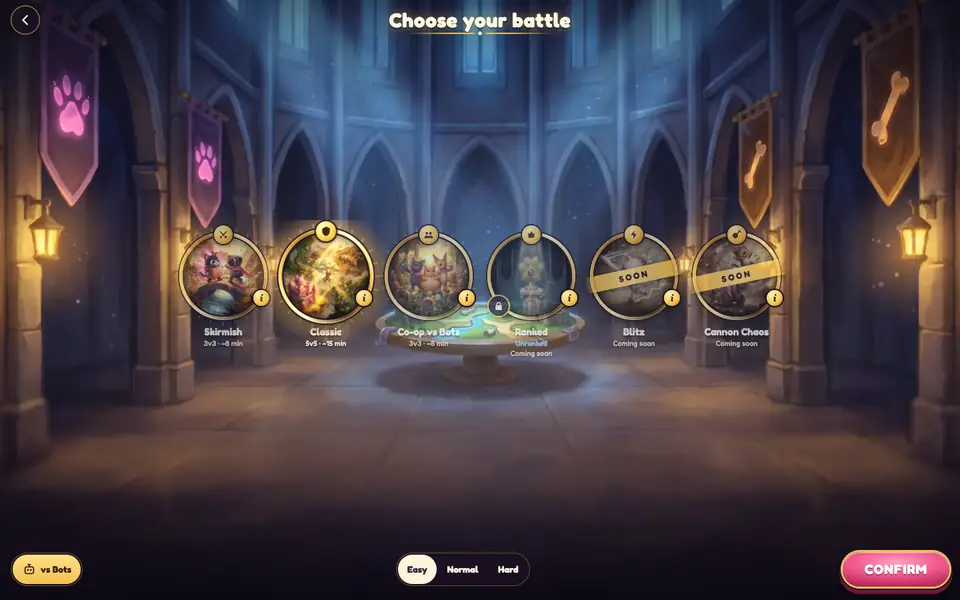
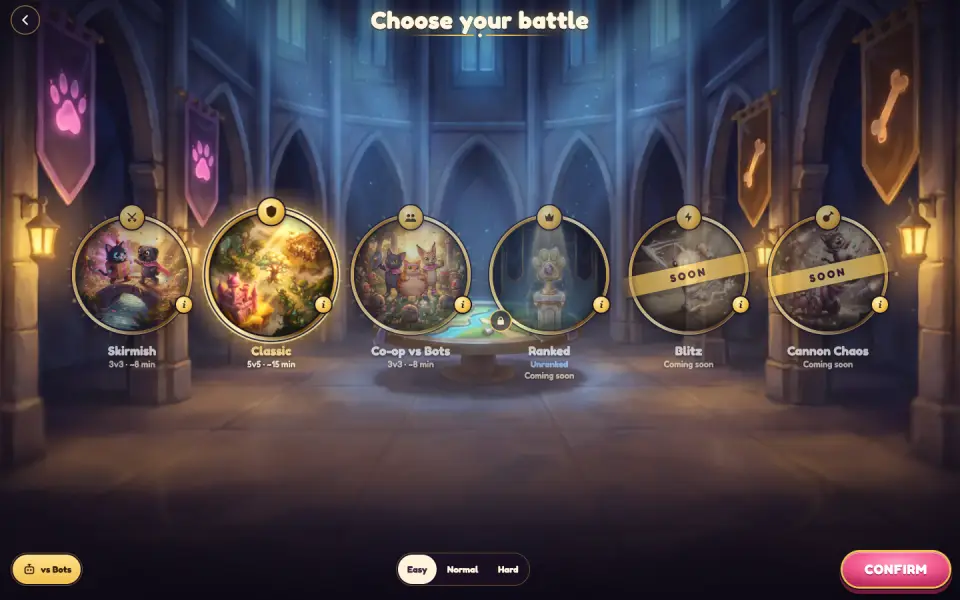
fix(pawlegends): review pass on Home and Mode Select visuals
- Mode Select: the picked tile drew a square halo and cut its crest, because the tile row's overflow clipped
  at an 18 px padding. The row now pads 40/28/18 px with a negative margin, so its size is unchanged. The glow
  is a round box-shadow on the frame instead of a filter on the whole ring.
- Mode Select on large screens (min 1000x600): portraits grow from 132 px to up to 200 px, with larger crest,
  name and title. Six tiles still fit at 1280 and 1440 wide.
- Home on desktop: the card peek ("Your cats become skins") drew bare over the key art with a see-through
  card back (--lb-panel is only defined on the old lobby), so it read as broken. It now sits on the same glass
  card as the promo and has a solid card back. Low tier gets the solid glass.
- Doc screenshots refreshed (modes at 844x390 and 1440x900, returning Home at 1440x900).

diff --git a/pawlegends/src/ui/modeSelect/modeSelect.css b/pawlegends/src/ui/modeSelect/modeSelect.css
@@ -21,7 +21,8 @@
 .ms-overlay.out { animation: ms-out 0.2s ease-in both; }
 @keyframes ms-in { from { opacity: 0; } }
 @keyframes ms-out { to { opacity: 0; } }
-html:not([data-quality='low']) .ms-overlay:not(.low) { backdrop-filter: blur(8px) brightness(0.6); -webkit-backdrop-filter: blur(8px) brightness(0.6); }
+/* no backdrop-filter: .ms-bg is opaque (#1a1024 under the art), so a blur of the live 3D canvas behind would never show
+   and still cost a full-screen re-blur every frame on phones */
 .ms-bg {
   position: absolute; inset: -12px; z-index: -1; pointer-events: none;
   background:
@@ -57,9 +58,11 @@ html:not([data-quality='low']) .ms-overlay:not(.low) { backdrop-filter: blur(8px
 /* the tile row: centred; a sideways scroller with snap only when it overflows */
 .ms-rowwrap { position: relative; flex: 1 1 auto; min-height: 0; display: flex; align-items: center; }
 .ms-row {
-  display: flex; gap: var(--ms-gap); margin: 0 auto; max-width: 100%; box-sizing: border-box;
+  display: flex; gap: var(--ms-gap); margin: -22px auto; max-width: 100%; box-sizing: border-box;
   overflow-x: auto; overflow-y: hidden; scroll-snap-type: x mandatory; scrollbar-width: none; overscroll-behavior-x: contain;
-  padding: 18px 8px 6px;
+  /* review: overflow clips at the padding box, so the padding holds the picked tile's glow, lift and crest (18 px cut the
+     glow into a square and the crest's top); the negative margin keeps the row's footprint */
+  padding: 40px 28px 18px;
 }
 .ms-row::-webkit-scrollbar { display: none; }
 .ms-rowwrap::before, .ms-rowwrap::after {
@@ -146,7 +149,14 @@ html:not([data-quality='low']) .ms-overlay:not(.low) { backdrop-filter: blur(8px
 }
 /* selection: the picked ring brightens and lifts, a burst glows under it, the others dim */
 .ms-row.has-sel .ms-pick:not(.on) { opacity: 0.7; }
-.ms-pick.on .ms-ring { transform: scale(1.08); filter: brightness(1.12) drop-shadow(0 0 14px rgba(255, 210, 110, 0.75)); }
+/* the picked ring: a round box-shadow glow on the frame (cheaper than a filter on the whole ring) */
+.ms-pick.on .ms-ring { transform: scale(1.1); }
+.ms-pick.on .ms-frame {
+  box-shadow: 0 0 0 2px var(--ms-ink), 0 0 0 4px rgba(255, 236, 170, 0.95), 0 0 26px 8px rgba(255, 200, 100, 0.6), 0 8px 18px rgba(0, 0, 0, 0.55),
+    inset 0 0 0 1px rgba(255, 255, 255, 0.6);
+}
+.ms-pick.on .ms-art { filter: brightness(1.1) saturate(1.12); }
+.ms-pick.on .ms-name { color: #ffe9a8; }
 .ms-pick.on .ms-ring::before {
   content: ''; position: absolute; inset: -22%; border-radius: 50%; z-index: -1;
   background: radial-gradient(closest-side, rgba(255, 214, 120, 0.55), rgba(255, 140, 90, 0.18) 60%, transparent);
@@ -204,6 +214,18 @@ html:not([data-quality='low']) .ms-overlay:not(.low) { backdrop-filter: blur(8px
   pointer-events: none; white-space: nowrap;
 }
 .ms-toast.on { opacity: 1; transform: translate(-50%, 0); }
+
+/* review: large screens (1280x720, 1440x900) got the 132 px phone-sized tiles in a mostly empty hall; the portraits
+   grow with the viewport (6 tiles still fit the width) */
+@media (min-height: 600px) and (min-width: 1000px) {
+  .ms-overlay { --ms-tile: clamp(132px, min(24dvh, 12.5vw), 200px); --ms-gap: clamp(18px, 2vw, 30px); }
+  .ms-crest { width: 36px; height: 36px; top: -14px; }
+  .ms-crest svg { width: 20px; height: 20px; }
+  .ms-name { font-size: 19px; margin-top: 12px; }
+  .ms-meta, .ms-rank { font-size: 13px; }
+  .ms-band { height: 30px; margin-top: -15px; font-size: 16px; }
+  .ms-title { font-size: 36px; }
+}
 
 /* phones (landscape): 104 px tiles, labels trimmed */
 @media (max-height: 480px) {

diff --git a/pawlegends/src/ui/home/home.css b/pawlegends/src/ui/home/home.css
@@ -230,6 +230,8 @@ button.hm-plate:hover .hm-plate-n { color: var(--hm-gold-1); }
   animation: hm-rise 0.45s cubic-bezier(0.34, 1.56, 0.64, 1) 0.12s both;
 }
 html:not([data-quality='low']) .pl-home:not(.low) .hm-nav { backdrop-filter: blur(10px); -webkit-backdrop-filter: blur(10px); }
+/* phones: no backdrop blur over the live 3D canvas (re-blurred every frame; the champ browser's rule, champBrowser.css) */
+html[data-phone='1'] .pl-home .hm-nav, html[data-touch='1'] .pl-home .hm-nav { backdrop-filter: none; -webkit-backdrop-filter: none; background: var(--hm-glass-solid); }
 /* a thin gold rule along the nav's top edge */
 .hm-nav::before {
   content: ''; position: absolute; left: 14px; right: 14px; top: 0; height: 1.5px; pointer-events: none;
@@ -335,8 +337,23 @@ html[data-quality='low'] .hm-nav, .pl-home.low .hm-nav { background: var(--hm-gl
 @keyframes hm-shock { to { transform: scale(2.1); opacity: 0; border-width: 1px; } }
 .pl-home .hm-play:focus-visible { outline: 3px solid var(--butter, #ffd34d); outline-offset: 6px; }
 
-/* the card peek (desktop only): above the PLAY cluster */
-.pl-home .lb-peek { right: var(--hm-r); bottom: auto; top: calc(var(--hm-t) + 160px); }
+/* the card peek (desktop only): above the PLAY cluster. Review: the old lobby drew it bare on a dark gradient; over the
+   key art the caption and the empty card back read as a stray, broken element, so it sits on the same glass card as
+   the promo */
+.pl-home .lb-peek {
+  right: var(--hm-r); bottom: auto; top: calc(var(--hm-t) + 160px); padding: 8px 14px 8px 8px; border-radius: 16px;
+  background: var(--hm-glass); box-shadow: inset 0 0 0 1px var(--hm-line), inset 0 1px 0 rgba(255, 255, 255, 0.12), 0 8px 24px rgba(0, 0, 0, 0.4);
+  animation: hm-slide-r 0.45s cubic-bezier(0.34, 1.56, 0.64, 1) 0.3s both;
+}
+html:not([data-quality='low']) .pl-home:not(.low) .lb-peek { backdrop-filter: blur(10px); -webkit-backdrop-filter: blur(10px); }
+html[data-quality='low'] .pl-home .lb-peek, .pl-home.low .lb-peek { background: var(--hm-glass-solid); }
+.pl-home .lb-peek .lb-peek-cap { margin-bottom: 0; }
+.pl-home .lb-peek .lb-back {
+  width: 52px; height: 72px; color: var(--hm-gold-1);
+  background: repeating-linear-gradient(45deg, rgba(255, 228, 170, 0.08) 0 6px, transparent 6px 12px), linear-gradient(160deg, #4a2c5a, #241430);
+  box-shadow: inset 0 0 0 1.5px rgba(242, 193, 78, 0.6), 0 4px 10px rgba(0, 0, 0, 0.4);
+}
+.pl-home .lb-peek:hover { background: rgba(40, 24, 50, 0.72); }
 
 /* toast */
 .hm-toast {
